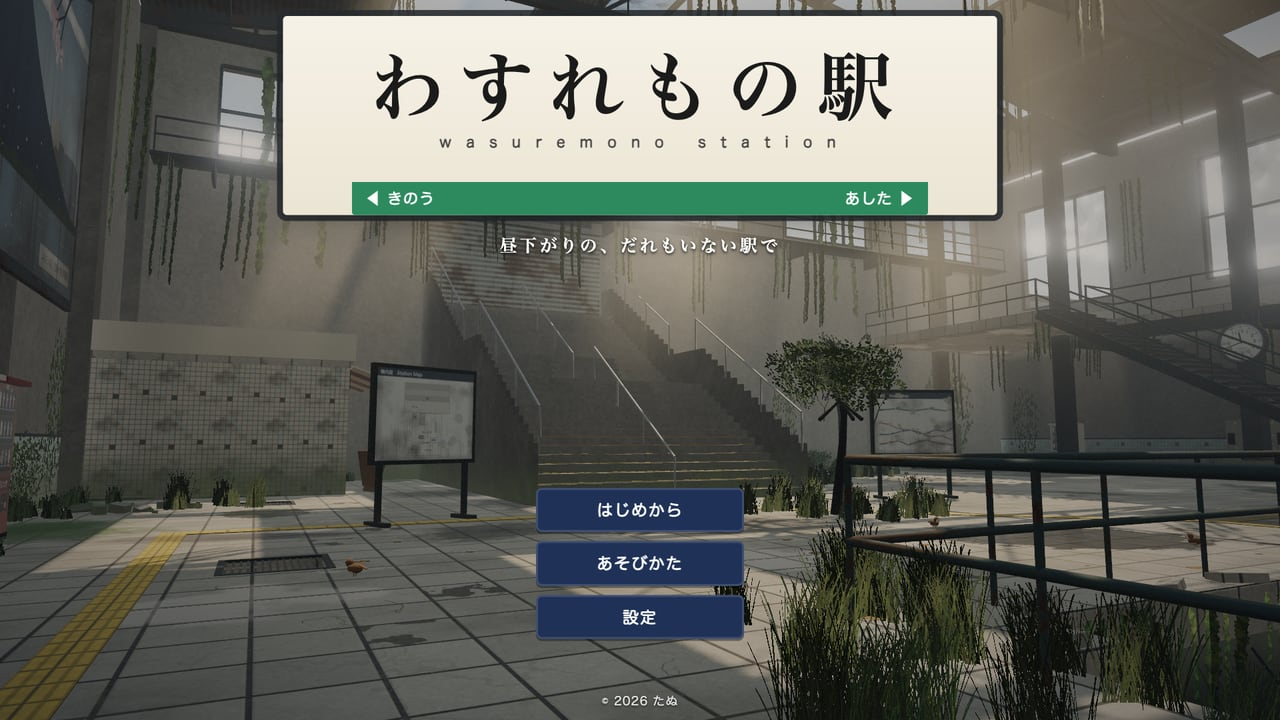
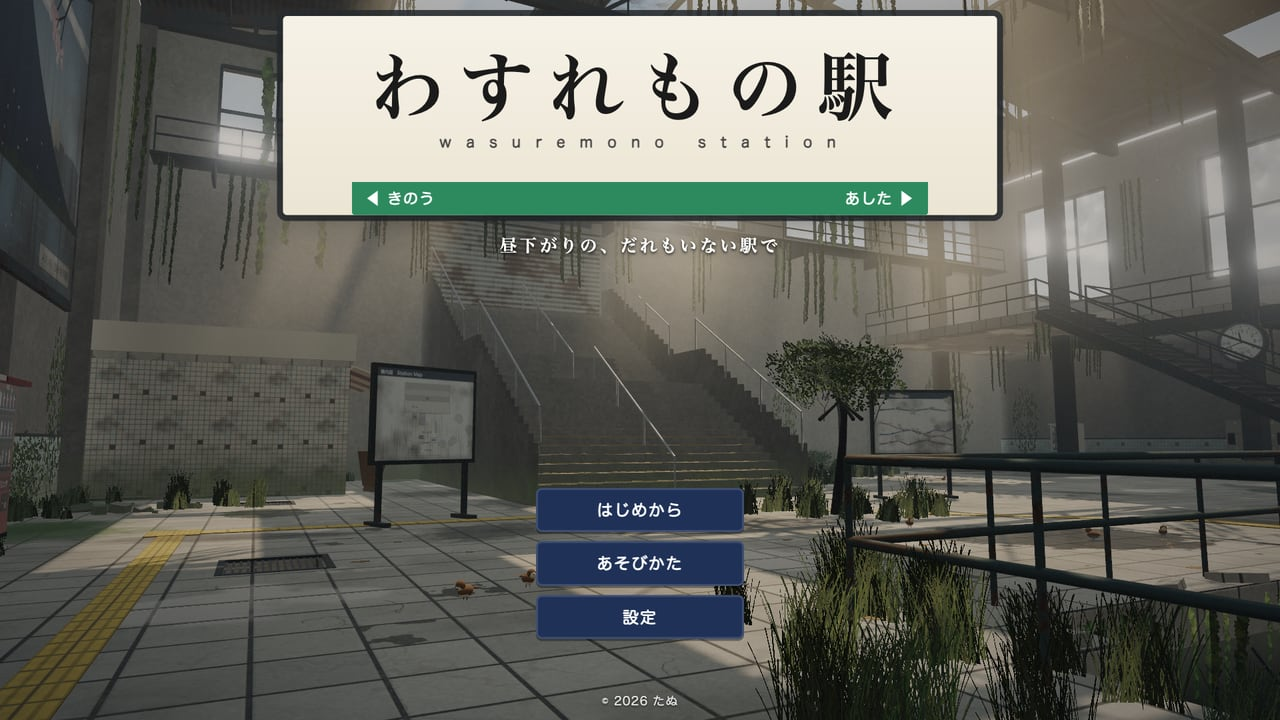
Clean up tactile paving joints and tone down water glints
試遊で 2 つの指摘があった。

- 点字ブロックの線が重なる所（分かれ目・角）で、模様がちらついて見えた。
  原因：線の板を、つなぎ目で 0.15m ずつのばして重ねていたため、同じ高さの面が重なっていた。
  分かれ目・角・行き止まりには点（警告）の板を置き、線の板はその下で止めるようにした
  （斜めの線も、角が点の板からはみ出さない長さで止める）。点の板は線より 8mm 高くし、遠くからもちらつかないようにした。
  右の階段へ向かう線は、階段の一段目にかかっていたので、階段の手前（z = 6.6）を通るように引き直した。
- 地下の水面に、まぶしい白い光の塊が出た。
  原因：水面の「太陽のきらめき」は、日が当たっているかどうかを見ずに、強い明るさ（6 倍）で足していた。
  日の差さない地下でも出て、暗い所で明るくする目の慣れとブルームで、大きな白い塊になっていた。
  地下の水にはきらめきを出さないようにし、ほかの水たまりも弱くして上限をつけた（ホールの中は、さらに半分）。
  影をシェーダーで見る方法もあるが、水たまりの描き方が大きく変わるので、今回は見送った。

確かめたこと：
- 同じ面に重なった面の検出で、点字ブロックの重なりがなくなったことを確かめた。
- 分かれ目・角・階段の手前、地下の水面（追いかけのカメラ、きらめきが出ていた角度、低い角度）を実 GPU で撮って目で見た。
- README のタイトル・コンコースの画像と冒頭の動画は、点字ブロックの角が写っているので撮り直した。

AI-Model: claude-opus-5-5
AI-Effort: max

diff --git a/src/game/world/dress.js b/src/game/world/dress.js
@@ -94,10 +94,12 @@ export function dressStation(B, M, scene) {
   refs.platformShutter = shutterTop;
   refs.spots.shutter = [(S.x0 + S.x1) / 2, S.top + 0.5, L.corridor.shutterZ + 0.6];
   // 点字ブロック（改札 → 大階段、右の階段へ）
-  tactilePath(B, M, [[0, 15.2], [0, 6], [-5, 1.0], [-5, -0.6]]);
-  tactilePath(B, M, [[0, 6], [11.25, 6], [11.25, 6.6]]);
-  tactilePath(B, M, [[-5, 1.0], [-13.5, 1.0], [-13.5, 9.8], [-15.6, 9.8]]);
-  for (const [x, z] of [[-5, -0.75], [11.25, 6.7], [0, 15.3]]) B.box(M.tactileDot, { x, y: 0.008, z, w: 0.6, h: 0.012, d: 0.6, collide: false, cast: false });
+  // 右の階段へは、階段の手前（z = 6.6）を通す。分かれ目・角・行き止まりには点の板
+  tactilePaths(B, M, [
+    [[0, 15.2], [0, 6.6], [0, 6], [-5, 1.0], [-5, -0.6]],
+    [[0, 6.6], [11.25, 6.6]],
+    [[-5, 1.0], [-13.5, 1.0], [-13.5, 9.8], [-15.6, 9.8]],
+  ], [[0, 15.2], [-5, -0.6], [11.25, 6.6], [-15.6, 9.8]]);
 
   // ================================================================ コンコース：東
   // 時計（柱）
@@ -288,13 +290,34 @@ function stairRail(B, M, x, z0, y0, z1, y1, yOff, center) {
   }
 }
 
-function tactilePath(B, M, pts) {
-  for (let i = 0; i < pts.length - 1; i++) {
-    const [x0, z0] = pts[i], [x1, z1] = pts[i + 1];
-    const len = Math.hypot(x1 - x0, z1 - z0);
-    const ry = Math.atan2(x1 - x0, z1 - z0);
-    B.box(M.tactileLine, { x: (x0 + x1) / 2, y: 0.006, z: (z0 + z1) / 2, w: 0.3, h: 0.012, d: len + 0.3, ry, collide: false, cast: false, uv: 1 });
+/**
+ * 点字ブロック。線（誘導）の板は、分かれ目・角・行き止まりの点（警告）の板の下で止める。
+ * 線どうしを重ねると、同じ高さの面がちらつくので。点の板は線より 8mm 高い（遠くから見てもちらつかないように）。
+ * paths：折れ線の並び（同じ座標の点はつながっているとみなす）、ends：点の板を置く行き止まり。
+ */
+function tactilePaths(B, M, paths, ends = []) {
+  const W = 0.3, S = 0.3;                // 線の幅、点の板の半分の大きさ（0.6m 四方）
+  const key = (p) => `${p[0]},${p[1]}`;
+  const deg = new Map();
+  for (const pts of paths) pts.forEach((p, i) => deg.set(key(p), (deg.get(key(p)) || 0) + (i > 0) + (i < pts.length - 1)));
+  const dots = new Map();
+  for (const pts of paths) for (const p of pts) if (deg.get(key(p)) >= 2) dots.set(key(p), p);
+  for (const p of ends) dots.set(key(p), p);
+  for (const pts of paths) {
+    for (let i = 0; i < pts.length - 1; i++) {
+      const [x0, z0] = pts[i], [x1, z1] = pts[i + 1];
+      const len = Math.hypot(x1 - x0, z1 - z0);
+      const ux = Math.abs(x1 - x0) / len, uz = Math.abs(z1 - z0) / len;
+      // 点の板の中で止める長さ（斜めでも、線の角が点の板からはみ出さないように）。点の板がなければ少しのばす
+      const inDot = Math.min(ux > 1e-6 ? (S - (W / 2) * uz) / ux : Infinity, uz > 1e-6 ? (S - (W / 2) * ux) / uz : Infinity) - 0.02;
+      const a = dots.has(key(pts[i])) ? inDot : -W / 2, b = dots.has(key(pts[i + 1])) ? inDot : -W / 2;
+      if (len - a - b < 0.25) continue;     // 点の板どうしのあいだが短い所は、線を引かない
+      const t0 = a / len, t1 = 1 - b / len;
+      const cx = x0 + (x1 - x0) * (t0 + t1) / 2, cz = z0 + (z1 - z0) * (t0 + t1) / 2;
+      B.box(M.tactileLine, { x: cx, y: 0.006, z: cz, w: W, h: 0.012, d: len - a - b, ry: Math.atan2(x1 - x0, z1 - z0), collide: false, cast: false, uv: 1 });
+    }
   }
+  for (const [x, z] of dots.values()) B.box(M.tactileDot, { x, y: 0.011, z, w: S * 2, h: 0.018, d: S * 2, collide: false, cast: false });
 }
 
 function windowFrame(B, M, axis, c, a, b, y0, y1, broken) {

diff --git a/src/game/world/water.js b/src/game/world/water.js
@@ -34,6 +34,7 @@ const FRAG = /* glsl */ `
   uniform vec3 uSunCol;
   uniform float uOpacity;
   uniform float uFull;
+  uniform float uGlint;
   varying vec4 vRefl;
   varying vec3 vW;
   varying vec2 vUv;
@@ -60,9 +61,9 @@ const FRAG = /* glsl */ `
       vec2 uv = vRefl.xy / max(vRefl.w, 1e-4) + dist;
       refl = texture2D(uRefl, uv).rgb;
     }
-    // 太陽のきらめき
+    // 太陽のきらめき（影は見ていないので、日の差さない所では uGlint = 0。明るすぎるとブルームで白い塊になるので上限）
     vec3 H = normalize(V + normalize(uSunDir));
-    float spec = pow(max(H.y + (w - 0.75) * 0.03, 0.0), 900.0) * 6.0;
+    float spec = min(pow(max(H.y + (w - 0.75) * 0.03, 0.0), 900.0) * 1.6, 0.9) * uGlint;
     vec3 col = mix(uDeep, refl, fres) + uSunCol * spec;
     gl_FragColor = vec4(col, m * uOpacity);
     #include <tonemapping_fragment>
@@ -97,9 +98,9 @@ export class Puddles {
   }
 
   /** 水たまりを置く（y = 床の高さ、full = 形のない水面）。 */
-  add(x, y, z, w, d, ry = 0, { full = false, opacity = 0.82, mask = 0 } = {}) {
+  add(x, y, z, w, d, ry = 0, { full = false, opacity = 0.82, mask = 0, glint = 1 } = {}) {
     const mat = new THREE.ShaderMaterial({
-      uniforms: { ...THREE.UniformsLib.fog, ...this.uniforms, uMask: { value: mask ? this.mask2 : this.mask }, uOpacity: { value: opacity }, uFull: { value: full ? 1 : 0 } },
+      uniforms: { ...THREE.UniformsLib.fog, ...this.uniforms, uMask: { value: mask ? this.mask2 : this.mask }, uOpacity: { value: opacity }, uFull: { value: full ? 1 : 0 }, uGlint: { value: glint } },
       vertexShader: VERT,
       fragmentShader: FRAG,
       transparent: true,
@@ -196,14 +197,15 @@ export function placePuddles(P, rng) {
   const H = L.hall;
   // 屋根の穴の下に、大きめの水たまり
   const spots = [[-3.8, 6.2, 3.4, 2.4], [4.5, -2.5, 2.8, 2.2], [8.8, 3.6, 3.6, 2.6], [-12.0, 11.6, 2.0, 1.5], [1.5, 11.6, 2.6, 1.6], [-12.4, -1.5, 1.8, 1.4], [6.4, 9.4, 2.2, 1.6], [-1.6, -6.8, 1.6, 1.2], [11.8, -6.5, 2.4, 1.8]];
-  spots.forEach(([x, z, w, d], i) => P.add(x, 0, z, w, d, rng() * 6, { mask: i % 2 }));
+  // ホールの中はほとんど日陰なので、きらめきは弱く
+  spots.forEach(([x, z, w, d], i) => P.add(x, 0, z, w, d, rng() * 6, { mask: i % 2, glint: 0.5 }));
   // 入口ホール・外
   P.add(6.5, 0, 22.5, 3.4, 2.6, 0.4, { mask: 1 });
   P.add(-2, 0, 33.5, 4, 3, 1.1);
   P.add(9, 0, 30.5, 2.6, 1.8, 0.2, { mask: 1 });
   // 地下の浸水（通路いっぱい）
   const D = L.under;
-  P.add((D.x0 + D.x1) / 2, D.waterY - 0.015, (D.water[0] + D.water[1]) / 2, D.x1 - D.x0, D.water[1] - D.water[0], 0, { full: true, opacity: 0.88 });
+  P.add((D.x0 + D.x1) / 2, D.waterY - 0.015, (D.water[0] + D.water[1]) / 2, D.x1 - D.x0, D.water[1] - D.water[0], 0, { full: true, opacity: 0.88, glint: 0 });
   // ホーム
   P.add(-14, L.platform.y, -20.5, 3, 2.2, 0.3);
   P.add(8.8, L.platform.y, -18.8, 4.2, 3.2, 1.2, { mask: 1 });
